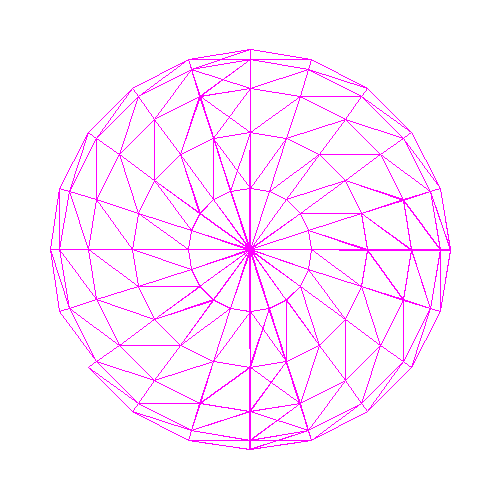
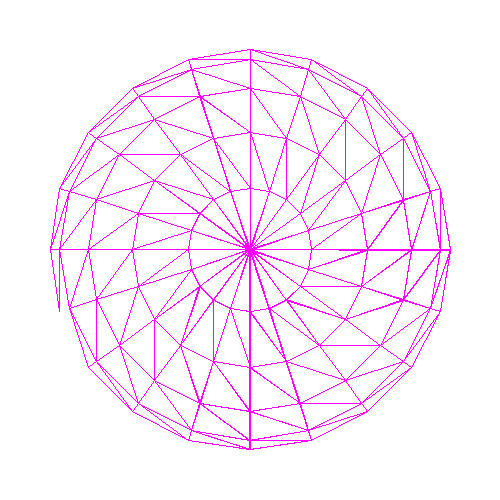
Test

diff --git a/05-polygon/draw.c b/05-polygon/draw.c
@@ -134,21 +134,9 @@ void add_sphere( struct matrix * points,
       int index2 = (index + 1)%temp->lastcol;
       int index3 = (index + num_steps)%temp->lastcol;
       int index4 = (index + num_steps + 1)%temp->lastcol;
-      /*
-      if(index2 > temp->lastcol){
-	index2 = index2 %temp->lastcol;
-      }
-      
-      if(index3 > temp->lastcol){
-	index3 = index3%temp->lastcol;
-      }
-      
-      if(index4 > temp->lastcol){
-	index4 = index4%temp->lastcol;
-      }
-      */
-      add_polygon(points,temp->m[0][index],temp->m[1][index],temp->m[2][index],temp->m[0][index2],temp->m[1][index2],temp->m[2][index2],temp->m[0][index3],temp->m[1][index3],temp->m[2][index3]);
-      add_polygon(points,temp->m[0][index],temp->m[1][index],temp->m[2][index],temp->m[0][index3],temp->m[1][index3],temp->m[2][index3],temp->m[0][index4],temp->m[1][index4],temp->m[2][index4]);
+     
+      add_polygon(points,temp->m[0][index],temp->m[1][index],temp->m[2][index],temp->m[0][index3],temp->m[1][index3],temp->m[2][index3],temp->m[0][index2],temp->m[1][index2],temp->m[2][index2]);
+      add_polygon(points,temp->m[0][index],temp->m[1][index],temp->m[2][index],temp->m[0][index4],temp->m[1][index4],temp->m[2][index4],temp->m[0][index3],temp->m[1][index3],temp->m[2][index3]);
       
     }//end points only
   }
